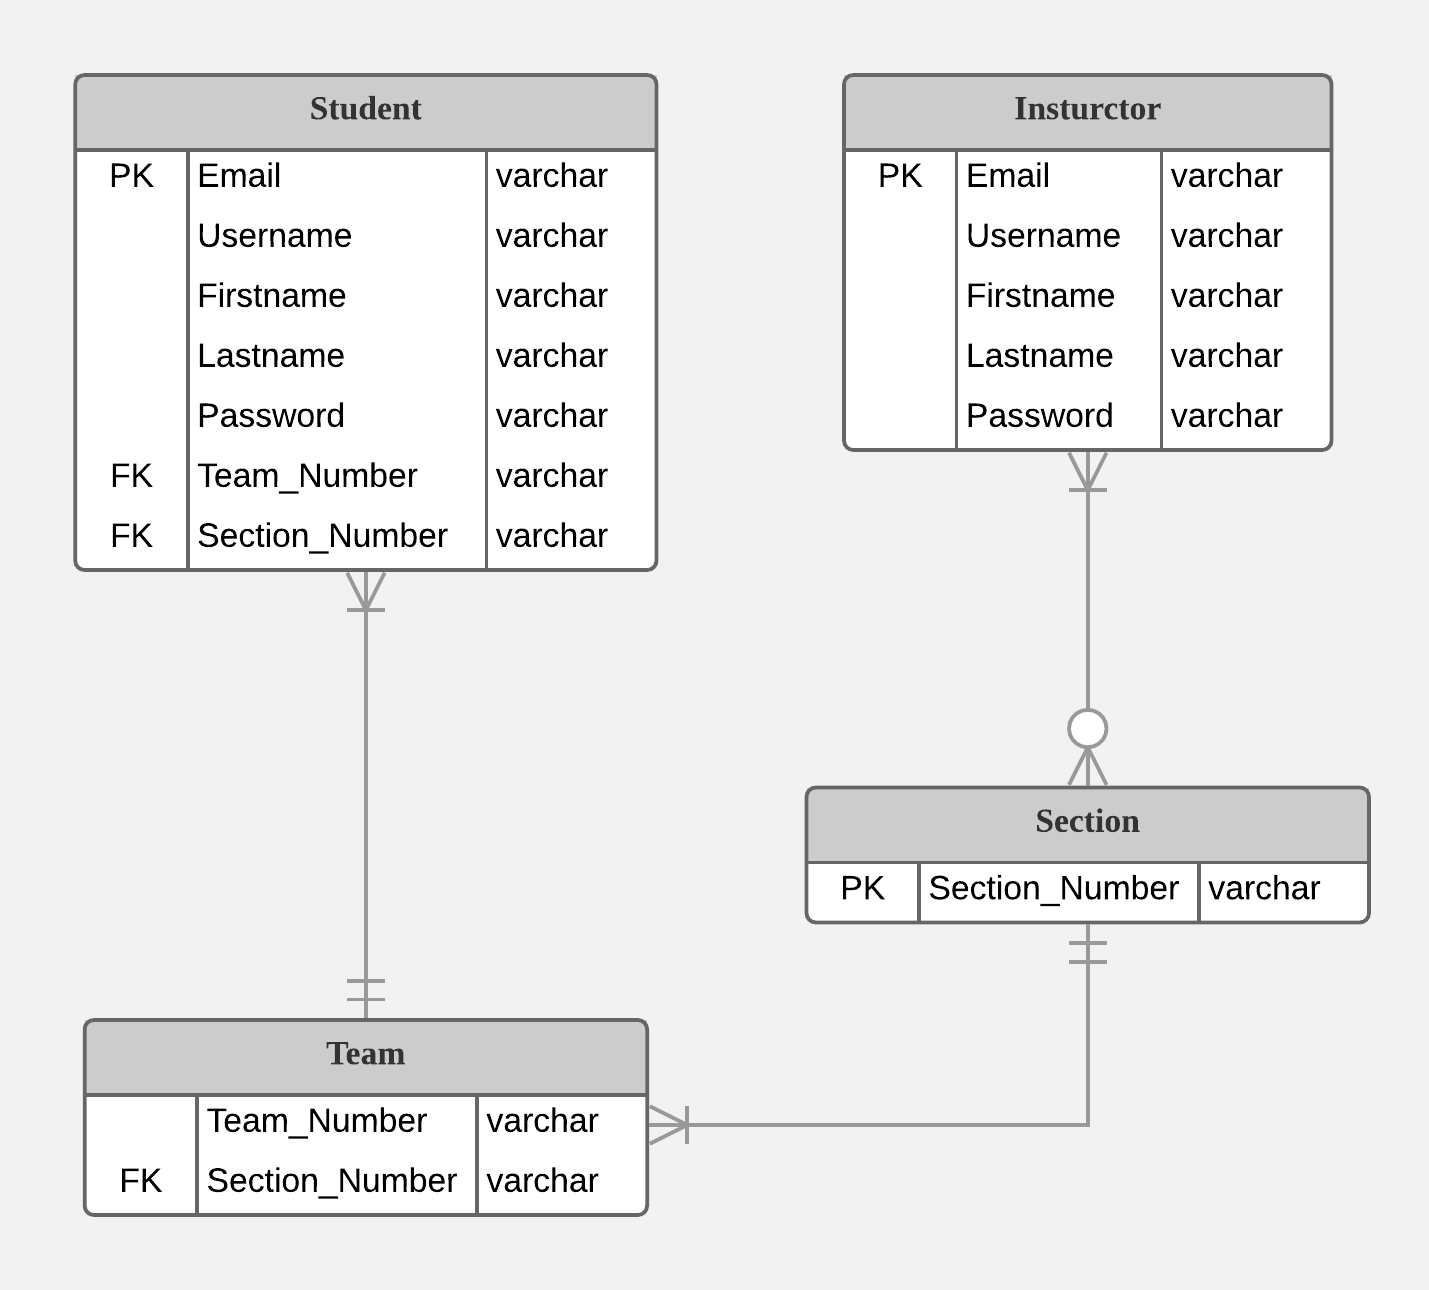
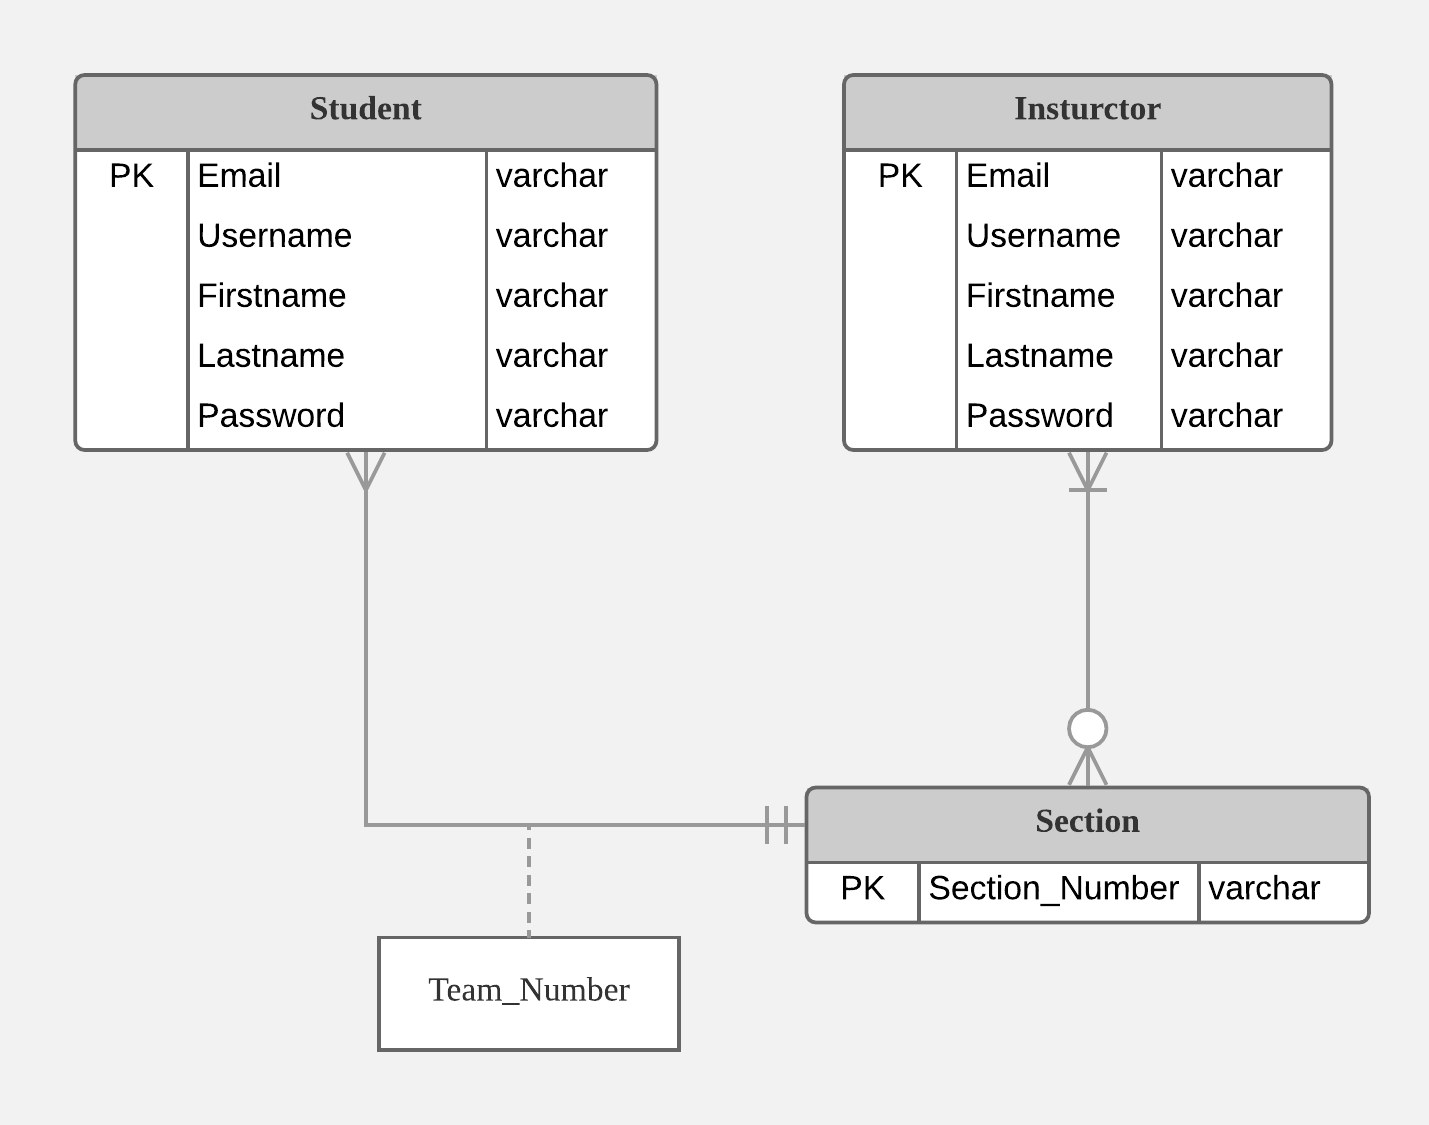
Update ER Diagram

Changed region(s): [[0.0308, 0.5289, 0.9853, 0.9644], [0.0616, 0.0311, 0.4619, 0.4667], [0.585, 0.0311, 0.9545, 0.4356]]

diff --git a/Django Application/CLE/Module_TeamManagement/models.py b/Django Application/CLE/Module_TeamManagement/models.py
@@ -5,49 +5,39 @@ from django.db import models
 
 # Create your models here.
 class Instructor(models.Model):
-    email = models.CharField(db_column='Email', max_length=255, primary_key=True)
+    email = models.EmailField(db_column='Instructor_Email', primary_key=True)
     username = models.CharField(db_column='Username', max_length=255)
     firstname = models.CharField(db_column='Firstname', max_length=255)
     lastname = models.CharField(db_column='Lastname', max_length=255)
     password = models.CharField(db_column='Password', max_length=255)
+    section_number = models.ManyToManyField(Section, db_column='Section_Number', null=True)
 
     class Meta:
         managed = True
         db_table = 'Instructor'
 
 class Section(models.Model):
-    section_number = models.CharField(db_column='Section_Number', max_length=255, primary_key=True)
+    section_number = models.CharField(db_column='Section_Number', max_length=2, primary_key=True)
 
     class Meta:
         managed = True
-        db_table = 'section'
+        db_table = 'Section'
 
-class Team(models.Model):
-    team_number = models.CharField(db_column='Team_Number', max_length=255)
+class Assigned_Team(models.Model):
+    student_email = models.ForeignKey(Student, on_delete=models.CASCADE, db_column='Student_Email', primary_key=True)
+    team_number = models.CharField(db_column='Team_Number', max_length=2)
     section_number = models.ForeignKey(Section, on_delete=models.CASCADE, db_column='Section_Number')
 
     class Meta:
         managed = True
-        db_table = 'Team'
-        unique_together = (('section_number','team_number'),)
-
-class Section_Instructor(models.Model):
-    section_number = models.ForeignKey(Section, on_delete=models.CASCADE, db_column='Section_Number')
-    instructor_email = models.ForeignKey(Instructor, on_delete=models.CASCADE, db_column='Instructor_Email')
-
-    class Meta:
-        managed = True
-        db_table = 'Section_Instructor'
-        unique_together = (('section_number', 'instructor_email'),)
+        db_table = 'Assigned_Team'
 
 class Student(models.Model):
-    email = models.CharField(max_length=255, primary_key=True)
-    username = models.CharField(max_length=255)
-    firstname = models.CharField(max_length=255)
-    lastname = models.CharField(max_length=255)
-    password = models.CharField(max_length=255)
-#    section_number = models.ForeignKey(Team, on_delete=models.CASCADE, db_column='Section_Number')
-#    team_number = models.ForeignKey(Team, on_delete=models.CASCADE, db_column='Team_number')
+    email = models.EmailField(db_column='Student_Email', primary_key=True)
+    username = models.CharField(db_column='Username', max_length=255)
+    firstname = models.CharField(db_column='Firstname', max_length=255)
+    lastname = models.CharField(db_column='Lastname', max_length=255)
+    password = models.CharField(db_column='Password', max_length=255)
 
     class Meta:
         managed = True
